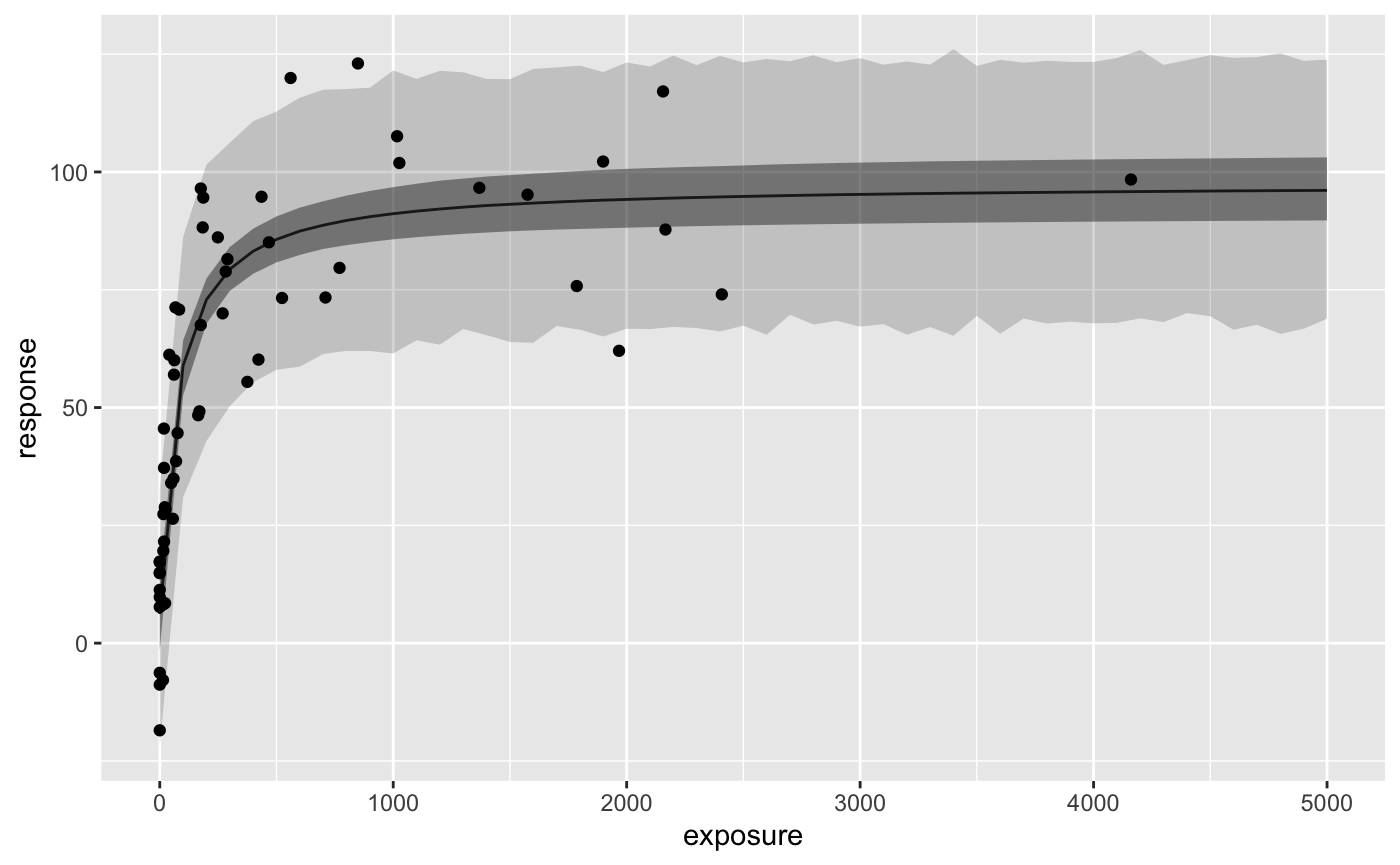
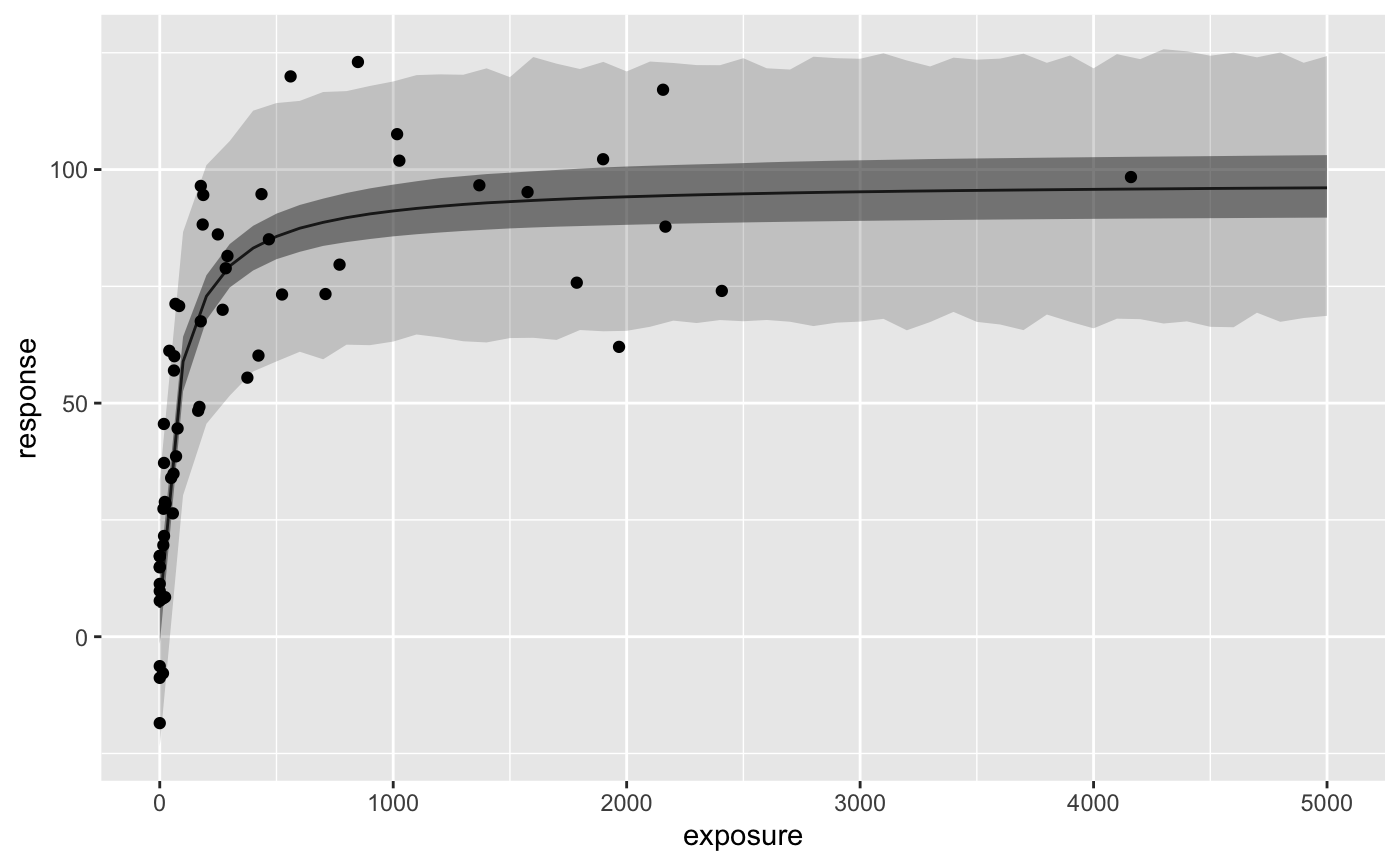
Update documents & sites

diff --git a/docs/articles/emaxmodel.html b/docs/articles/emaxmodel.html
@@ -79,13 +79,13 @@
 
       
 
-      </header><div class="row">
+      </header><script src="emaxmodel_files/accessible-code-block-0.0.1/empty-anchor.js"></script><div class="row">
   <div class="col-md-9 contents">
     <div class="page-header toc-ignore">
       <h1 data-toc-skip>Simple Emax model fit with Stan</h1>
                         <h4 class="author">Kenta Yoshida</h4>
             
-            <h4 class="date">2020-06-18</h4>
+            <h4 class="date">2020-09-16</h4>
       
       <small class="dont-index">Source: <a href="https://github.com/yoshidk6/rstanemax/blob/master/vignettes/emaxmodel.Rmd"><code>vignettes/emaxmodel.Rmd</code></a></small>
       <div class="hidden name"><code>emaxmodel.Rmd</code></div>
@@ -110,16 +110,7 @@
 
 <span class="no">fit.emax</span> <span class="kw">&lt;-</span> <span class="fu"><a href="../reference/stan_emax.html">stan_emax</a></span>(<span class="no">response</span> ~ <span class="no">exposure</span>, <span class="kw">data</span> <span class="kw">=</span> <span class="no">exposure.response.sample</span>,
                       <span class="co"># the next line is only to make the example go fast enough</span>
-                      <span class="kw">chains</span> <span class="kw">=</span> <span class="fl">2</span>, <span class="kw">iter</span> <span class="kw">=</span> <span class="fl">1000</span>, <span class="kw">seed</span> <span class="kw">=</span> <span class="fl">12345</span>)
-<span class="co">#&gt; Warning: The largest R-hat is NA, indicating chains have not mixed.</span>
-<span class="co">#&gt; Running the chains for more iterations may help. See</span>
-<span class="co">#&gt; http://mc-stan.org/misc/warnings.html#r-hat</span>
-<span class="co">#&gt; Warning: Bulk Effective Samples Size (ESS) is too low, indicating posterior means and medians may be unreliable.</span>
-<span class="co">#&gt; Running the chains for more iterations may help. See</span>
-<span class="co">#&gt; http://mc-stan.org/misc/warnings.html#bulk-ess</span>
-<span class="co">#&gt; Warning: Tail Effective Samples Size (ESS) is too low, indicating posterior variances and tail quantiles may be unreliable.</span>
-<span class="co">#&gt; Running the chains for more iterations may help. See</span>
-<span class="co">#&gt; http://mc-stan.org/misc/warnings.html#tail-ess</span></pre></body></html></div>
+                      <span class="kw">chains</span> <span class="kw">=</span> <span class="fl">2</span>, <span class="kw">iter</span> <span class="kw">=</span> <span class="fl">1000</span>, <span class="kw">seed</span> <span class="kw">=</span> <span class="fl">12345</span>)</pre></body></html></div>
 <div class="sourceCode" id="cb3"><html><body><pre class="r"><span class="no">fit.emax</span>
 <span class="co">#&gt; ---- Emax model fit with rstanemax ----</span>
 <span class="co">#&gt; </span>
@@ -139,8 +130,17 @@
 <p><code><a href="https://rdrr.io/r/base/plot.html">plot()</a></code> function shows the estimated Emax model curve with 95% credible intervals of parameters.</p>
 <div class="sourceCode" id="cb4"><html><body><pre class="r"><span class="fu"><a href="https://rdrr.io/r/base/plot.html">plot</a></span>(<span class="no">fit.emax</span>)</pre></body></html></div>
 <p><img src="emaxmodel_files/figure-html/plot_example-1.png" width="700"></p>
+<p>Output of <code><a href="https://rdrr.io/r/base/plot.html">plot()</a></code> function (for <code>stanemax</code> object) is a <code>ggplot</code> object, so you can apply additional settings as you would do in <code>ggplot2</code>.<br>
+Here is an example of using log scale for x axis (note that exposure == 0 is hanging at the very left, making the curve a bit weird).</p>
+<div class="sourceCode" id="cb5"><html><body><pre class="r"><span class="fu"><a href="https://rdrr.io/r/base/plot.html">plot</a></span>(<span class="no">fit.emax</span>) + <span class="fu"><a href="https://ggplot2.tidyverse.org/reference/scale_continuous.html">scale_x_log10</a></span>() + <span class="fu"><a href="https://ggplot2.tidyverse.org/reference/expand_limits.html">expand_limits</a></span>(<span class="kw">x</span> <span class="kw">=</span> <span class="fl">1</span>)
+<span class="co">#&gt; Warning: Transformation introduced infinite values in continuous x-axis</span>
+
+<span class="co">#&gt; Warning: Transformation introduced infinite values in continuous x-axis</span>
+
+<span class="co">#&gt; Warning: Transformation introduced infinite values in continuous x-axis</span></pre></body></html></div>
+<p><img src="emaxmodel_files/figure-html/plot_example_log-1.png" width="700"></p>
 <p>Raw output from <code>rstan</code> is stored in the output variable, and you can access it with <code><a href="../reference/stanemax-methods.html">extract_stanfit()</a></code> function.</p>
-<div class="sourceCode" id="cb5"><html><body><pre class="r"><span class="fu"><a href="https://rdrr.io/r/base/class.html">class</a></span>(<span class="fu"><a href="../reference/stanemax-methods.html">extract_stanfit</a></span>(<span class="no">fit.emax</span>))
+<div class="sourceCode" id="cb6"><html><body><pre class="r"><span class="fu"><a href="https://rdrr.io/r/base/class.html">class</a></span>(<span class="fu"><a href="../reference/stanemax-methods.html">extract_stanfit</a></span>(<span class="no">fit.emax</span>))
 <span class="co">#&gt; [1] "stanfit"</span>
 <span class="co">#&gt; attr(,"package")</span>
 <span class="co">#&gt; [1] "rstan"</span></pre></body></html></div>
@@ -149,44 +149,44 @@
 <h2 class="hasAnchor">
 <a href="#prediction-of-response-with-new-exposure-data" class="anchor"></a>Prediction of response with new exposure data</h2>
 <p><code><a href="../reference/posterior_predict.html">posterior_predict()</a></code> function allows users to predict the response using new exposure data. If <code>newdata</code> is not provided, the function returns the prediction on the exposures in original data. The default output is a matrix of posterior predictions, but you can also specify “dataframe” or “tibble” that contain posterior predictions in a long format. See help of <code><a href="../reference/posterior_predict.html">rstanemax::posterior_predict()</a></code> for the description of two predictions, <code>respHat</code> and <code>response</code>.</p>
-<div class="sourceCode" id="cb6"><html><body><pre class="r"><span class="no">response.pred</span> <span class="kw">&lt;-</span> <span class="fu"><a href="../reference/posterior_predict.html">posterior_predict</a></span>(<span class="no">fit.emax</span>, <span class="kw">newdata</span> <span class="kw">=</span> <span class="fu"><a href="https://rdrr.io/r/base/c.html">c</a></span>(<span class="fl">0</span>, <span class="fl">100</span>, <span class="fl">1000</span>), <span class="kw">returnType</span> <span class="kw">=</span> <span class="st">"tibble"</span>)
+<div class="sourceCode" id="cb7"><html><body><pre class="r"><span class="no">response.pred</span> <span class="kw">&lt;-</span> <span class="fu"><a href="../reference/posterior_predict.html">posterior_predict</a></span>(<span class="no">fit.emax</span>, <span class="kw">newdata</span> <span class="kw">=</span> <span class="fu"><a href="https://rdrr.io/r/base/c.html">c</a></span>(<span class="fl">0</span>, <span class="fl">100</span>, <span class="fl">1000</span>), <span class="kw">returnType</span> <span class="kw">=</span> <span class="st">"tibble"</span>)
 
 <span class="no">response.pred</span> <span class="kw">%&gt;%</span> <span class="fu"><a href="https://dplyr.tidyverse.org/reference/select.html">select</a></span>(<span class="no">mcmcid</span>, <span class="no">exposure</span>, <span class="no">respHat</span>, <span class="no">response</span>)
 <span class="co">#&gt; # A tibble: 3,000 x 4</span>
 <span class="co">#&gt;    mcmcid exposure respHat response</span>
 <span class="co">#&gt;     &lt;int&gt;    &lt;dbl&gt;   &lt;dbl&gt;    &lt;dbl&gt;</span>
-<span class="co">#&gt;  1      1        0  14.6      23.3 </span>
-<span class="co">#&gt;  2      1      100  61.1      50.3 </span>
-<span class="co">#&gt;  3      1     1000  98.4     105.  </span>
-<span class="co">#&gt;  4      2        0  13.1      20.2 </span>
-<span class="co">#&gt;  5      2      100  55.1      41.4 </span>
-<span class="co">#&gt;  6      2     1000  88.6     103.  </span>
-<span class="co">#&gt;  7      3        0   0.681    -8.38</span>
-<span class="co">#&gt;  8      3      100  60.8      47.1 </span>
-<span class="co">#&gt;  9      3     1000  92.1      75.1 </span>
-<span class="co">#&gt; 10      4        0   0.217   -15.3 </span>
+<span class="co">#&gt;  1      1        0  14.6     17.2  </span>
+<span class="co">#&gt;  2      1      100  61.1     93.5  </span>
+<span class="co">#&gt;  3      1     1000  98.4     90.0  </span>
+<span class="co">#&gt;  4      2        0  13.1      0.779</span>
+<span class="co">#&gt;  5      2      100  55.1     52.0  </span>
+<span class="co">#&gt;  6      2     1000  88.6     82.0  </span>
+<span class="co">#&gt;  7      3        0   0.681  -15.6  </span>
+<span class="co">#&gt;  8      3      100  60.8     60.9  </span>
+<span class="co">#&gt;  9      3     1000  92.1     84.6  </span>
+<span class="co">#&gt; 10      4        0   0.217   36.1  </span>
 <span class="co">#&gt; # … with 2,990 more rows</span></pre></body></html></div>
 <p>You can also get quantiles of predictions with <code><a href="../reference/posterior_predict.html">posterior_predict_quantile()</a></code> function.</p>
-<div class="sourceCode" id="cb7"><html><body><pre class="r"><span class="no">resp.pred.quantile</span> <span class="kw">&lt;-</span> <span class="fu"><a href="../reference/posterior_predict.html">posterior_predict_quantile</a></span>(<span class="no">fit.emax</span>, <span class="kw">newdata</span> <span class="kw">=</span> <span class="fu"><a href="https://rdrr.io/r/base/seq.html">seq</a></span>(<span class="fl">0</span>, <span class="fl">5000</span>, <span class="kw">by</span> <span class="kw">=</span> <span class="fl">100</span>))
+<div class="sourceCode" id="cb8"><html><body><pre class="r"><span class="no">resp.pred.quantile</span> <span class="kw">&lt;-</span> <span class="fu"><a href="../reference/posterior_predict.html">posterior_predict_quantile</a></span>(<span class="no">fit.emax</span>, <span class="kw">newdata</span> <span class="kw">=</span> <span class="fu"><a href="https://rdrr.io/r/base/seq.html">seq</a></span>(<span class="fl">0</span>, <span class="fl">5000</span>, <span class="kw">by</span> <span class="kw">=</span> <span class="fl">100</span>))
 <span class="no">resp.pred.quantile</span>
 <span class="co">#&gt; # A tibble: 51 x 11</span>
 <span class="co">#&gt;    exposure covemax covec50 cove0 Covariates ci_low ci_med ci_high pi_low pi_med</span>
 <span class="co">#&gt;       &lt;dbl&gt; &lt;fct&gt;   &lt;fct&gt;   &lt;fct&gt; &lt;chr&gt;       &lt;dbl&gt;  &lt;dbl&gt;   &lt;dbl&gt;  &lt;dbl&gt;  &lt;dbl&gt;</span>
-<span class="co">#&gt;  1        0 1       1       1     ""          -1.54   6.18    13.5  -21.9   5.89</span>
-<span class="co">#&gt;  2      100 1       1       1     ""          52.6   58.9     64.2   30.9  58.9 </span>
-<span class="co">#&gt;  3      200 1       1       1     ""          67.8   72.9     77.4   42.9  73.3 </span>
-<span class="co">#&gt;  4      300 1       1       1     ""          74.8   79.4     84.1   50.3  80.2 </span>
-<span class="co">#&gt;  5      400 1       1       1     ""          78.4   83.2     88.0   55.4  83.5 </span>
-<span class="co">#&gt;  6      500 1       1       1     ""          80.8   85.7     90.6   58.0  85.4 </span>
-<span class="co">#&gt;  7      600 1       1       1     ""          82.4   87.4     92.4   58.7  87.1 </span>
-<span class="co">#&gt;  8      700 1       1       1     ""          83.7   88.7     93.8   61.4  88.2 </span>
-<span class="co">#&gt;  9      800 1       1       1     ""          84.5   89.7     95.0   62.0  89.8 </span>
-<span class="co">#&gt; 10      900 1       1       1     ""          85.1   90.5     96.0   62.0  90.6 </span>
+<span class="co">#&gt;  1        0 1       1       1     ""          -1.54   6.18    13.5  -23.4   6.46</span>
+<span class="co">#&gt;  2      100 1       1       1     ""          52.6   58.9     64.2   30.3  58.1 </span>
+<span class="co">#&gt;  3      200 1       1       1     ""          67.8   72.9     77.4   45.6  72.9 </span>
+<span class="co">#&gt;  4      300 1       1       1     ""          74.8   79.4     84.1   51.6  79.1 </span>
+<span class="co">#&gt;  5      400 1       1       1     ""          78.4   83.2     88.0   56.8  83.5 </span>
+<span class="co">#&gt;  6      500 1       1       1     ""          80.8   85.7     90.6   58.9  87.0 </span>
+<span class="co">#&gt;  7      600 1       1       1     ""          82.4   87.4     92.4   61.0  87.5 </span>
+<span class="co">#&gt;  8      700 1       1       1     ""          83.7   88.7     93.8   59.4  88.2 </span>
+<span class="co">#&gt;  9      800 1       1       1     ""          84.5   89.7     95.0   62.5  88.5 </span>
+<span class="co">#&gt; 10      900 1       1       1     ""          85.1   90.5     96.0   62.4  90.9 </span>
 <span class="co">#&gt; # … with 41 more rows, and 1 more variable: pi_high &lt;dbl&gt;</span></pre></body></html></div>
 <p>Input data can be obtained in a same format with <code><a href="../reference/stanemax-methods.html">extract_obs_mod_frame()</a></code> function.</p>
-<div class="sourceCode" id="cb8"><html><body><pre class="r"><span class="no">obs.formatted</span> <span class="kw">&lt;-</span> <span class="fu"><a href="../reference/stanemax-methods.html">extract_obs_mod_frame</a></span>(<span class="no">fit.emax</span>)</pre></body></html></div>
+<div class="sourceCode" id="cb9"><html><body><pre class="r"><span class="no">obs.formatted</span> <span class="kw">&lt;-</span> <span class="fu"><a href="../reference/stanemax-methods.html">extract_obs_mod_frame</a></span>(<span class="no">fit.emax</span>)</pre></body></html></div>
 <p>These are particularly useful when you want to plot the estimated Emax curve.</p>
-<div class="sourceCode" id="cb9"><html><body><pre class="r"><span class="fu"><a href="https://ggplot2.tidyverse.org/reference/ggplot.html">ggplot</a></span>(<span class="no">resp.pred.quantile</span>, <span class="fu"><a href="https://ggplot2.tidyverse.org/reference/aes.html">aes</a></span>(<span class="no">exposure</span>, <span class="no">ci_med</span>)) +
+<div class="sourceCode" id="cb10"><html><body><pre class="r"><span class="fu"><a href="https://ggplot2.tidyverse.org/reference/ggplot.html">ggplot</a></span>(<span class="no">resp.pred.quantile</span>, <span class="fu"><a href="https://ggplot2.tidyverse.org/reference/aes.html">aes</a></span>(<span class="no">exposure</span>, <span class="no">ci_med</span>)) +
   <span class="fu"><a href="https://ggplot2.tidyverse.org/reference/geom_path.html">geom_line</a></span>() +
   <span class="fu"><a href="https://ggplot2.tidyverse.org/reference/geom_ribbon.html">geom_ribbon</a></span>(<span class="fu"><a href="https://ggplot2.tidyverse.org/reference/aes.html">aes</a></span>(<span class="kw">ymin</span><span class="kw">=</span><span class="no">ci_low</span>, <span class="kw">ymax</span><span class="kw">=</span><span class="no">ci_high</span>), <span class="kw">alpha</span> <span class="kw">=</span> <span class="fl">.5</span>) +
   <span class="fu"><a href="https://ggplot2.tidyverse.org/reference/geom_ribbon.html">geom_ribbon</a></span>(<span class="fu"><a href="https://ggplot2.tidyverse.org/reference/aes.html">aes</a></span>(<span class="kw">ymin</span><span class="kw">=</span><span class="no">pi_low</span>, <span class="kw">ymax</span><span class="kw">=</span><span class="no">pi_high</span>), <span class="kw">alpha</span> <span class="kw">=</span> <span class="fl">.2</span>) +
@@ -201,22 +201,16 @@
 <a href="#fix-parameter-values-in-emax-model" class="anchor"></a>Fix parameter values in Emax model</h1>
 <p>You can fix parameter values in Emax model for Emax, E0 and/or gamma (Hill coefficient). See help of <code><a href="../reference/stan_emax.html">stan_emax()</a></code> for the details. The default is to fix gamma at 1 and to estimate Emax and E0 from data.</p>
 <p>Below is the example of estimating gamma from data.</p>
-<div class="sourceCode" id="cb10"><html><body><pre class="r"><span class="fu"><a href="https://rdrr.io/r/utils/data.html">data</a></span>(<span class="no">exposure.response.sample</span>)
+<div class="sourceCode" id="cb11"><html><body><pre class="r"><span class="fu"><a href="https://rdrr.io/r/utils/data.html">data</a></span>(<span class="no">exposure.response.sample</span>)
 
 <span class="no">fit.emax.sigmoidal</span> <span class="kw">&lt;-</span> <span class="fu"><a href="../reference/stan_emax.html">stan_emax</a></span>(<span class="no">response</span> ~ <span class="no">exposure</span>, <span class="kw">data</span> <span class="kw">=</span> <span class="no">exposure.response.sample</span>,
                                 <span class="kw">gamma.fix</span> <span class="kw">=</span> <span class="kw">NULL</span>,
                                 <span class="co"># the next line is only to make the example go fast enough</span>
                                 <span class="kw">chains</span> <span class="kw">=</span> <span class="fl">2</span>, <span class="kw">iter</span> <span class="kw">=</span> <span class="fl">1000</span>, <span class="kw">seed</span> <span class="kw">=</span> <span class="fl">12345</span>)
-<span class="co">#&gt; Warning: The largest R-hat is NA, indicating chains have not mixed.</span>
-<span class="co">#&gt; Running the chains for more iterations may help. See</span>
-<span class="co">#&gt; http://mc-stan.org/misc/warnings.html#r-hat</span>
-<span class="co">#&gt; Warning: Bulk Effective Samples Size (ESS) is too low, indicating posterior means and medians may be unreliable.</span>
-<span class="co">#&gt; Running the chains for more iterations may help. See</span>
-<span class="co">#&gt; http://mc-stan.org/misc/warnings.html#bulk-ess</span>
 <span class="co">#&gt; Warning: Tail Effective Samples Size (ESS) is too low, indicating posterior variances and tail quantiles may be unreliable.</span>
 <span class="co">#&gt; Running the chains for more iterations may help. See</span>
 <span class="co">#&gt; http://mc-stan.org/misc/warnings.html#tail-ess</span></pre></body></html></div>
-<div class="sourceCode" id="cb11"><html><body><pre class="r"><span class="no">fit.emax.sigmoidal</span>
+<div class="sourceCode" id="cb12"><html><body><pre class="r"><span class="no">fit.emax.sigmoidal</span>
 <span class="co">#&gt; ---- Emax model fit with rstanemax ----</span>
 <span class="co">#&gt; </span>
 <span class="co">#&gt;        mean se_mean    sd  2.5%   25%   50%   75%  97.5%  n_eff Rhat</span>
@@ -233,7 +227,7 @@
 <span class="co">#&gt; * Use `extract_obs_mod_frame()` function to extract raw data </span>
 <span class="co">#&gt;   in a processed format (useful for plotting)</span></pre></body></html></div>
 <p>You can compare the difference of posterior predictions between two models (in this case they are very close to each other):</p>
-<div class="sourceCode" id="cb12"><html><body><pre class="r">
+<div class="sourceCode" id="cb13"><html><body><pre class="r">
 <span class="no">exposure_pred</span> <span class="kw">&lt;-</span> <span class="fu"><a href="https://rdrr.io/r/base/seq.html">seq</a></span>(<span class="fu"><a href="https://rdrr.io/r/base/Extremes.html">min</a></span>(<span class="no">exposure.response.sample</span>$<span class="no">exposure</span>),
                      <span class="fu"><a href="https://rdrr.io/r/base/Extremes.html">max</a></span>(<span class="no">exposure.response.sample</span>$<span class="no">exposure</span>),
                      <span class="kw">length.out</span> <span class="kw">=</span> <span class="fl">100</span>)
@@ -261,7 +255,7 @@
 <h1 class="hasAnchor">
 <a href="#set-covariates" class="anchor"></a>Set covariates</h1>
 <p>You can specify categorical covariates for Emax, EC50, and E0. See help of <code><a href="../reference/stan_emax.html">stan_emax()</a></code> for the details.</p>
-<div class="sourceCode" id="cb13"><html><body><pre class="r"><span class="fu"><a href="https://rdrr.io/r/utils/data.html">data</a></span>(<span class="no">exposure.response.sample.test</span>)
+<div class="sourceCode" id="cb14"><html><body><pre class="r"><span class="fu"><a href="https://rdrr.io/r/utils/data.html">data</a></span>(<span class="no">exposure.response.sample.test</span>)
 
 <span class="no">test.data</span> <span class="kw">&lt;-</span>
   <span class="fu"><a href="https://dplyr.tidyverse.org/reference/mutate.html">mutate</a></span>(<span class="no">exposure.response.sample.test</span>,
@@ -270,17 +264,8 @@
 <span class="no">fit.cov</span> <span class="kw">&lt;-</span> <span class="fu"><a href="../reference/stan_emax.html">stan_emax</a></span>(<span class="kw">formula</span> <span class="kw">=</span> <span class="no">resp</span> ~ <span class="no">conc</span>, <span class="kw">data</span> <span class="kw">=</span> <span class="no">test.data</span>,
                      <span class="kw">param.cov</span> <span class="kw">=</span> <span class="fu"><a href="https://rdrr.io/r/base/list.html">list</a></span>(<span class="kw">emax</span> <span class="kw">=</span> <span class="st">"SEX"</span>),
                      <span class="co"># the next line is only to make the example go fast enough</span>
-                     <span class="kw">chains</span> <span class="kw">=</span> <span class="fl">2</span>, <span class="kw">iter</span> <span class="kw">=</span> <span class="fl">1000</span>, <span class="kw">seed</span> <span class="kw">=</span> <span class="fl">12345</span>)
-<span class="co">#&gt; Warning: The largest R-hat is NA, indicating chains have not mixed.</span>
-<span class="co">#&gt; Running the chains for more iterations may help. See</span>
-<span class="co">#&gt; http://mc-stan.org/misc/warnings.html#r-hat</span>
-<span class="co">#&gt; Warning: Bulk Effective Samples Size (ESS) is too low, indicating posterior means and medians may be unreliable.</span>
-<span class="co">#&gt; Running the chains for more iterations may help. See</span>
-<span class="co">#&gt; http://mc-stan.org/misc/warnings.html#bulk-ess</span>
-<span class="co">#&gt; Warning: Tail Effective Samples Size (ESS) is too low, indicating posterior variances and tail quantiles may be unreliable.</span>
-<span class="co">#&gt; Running the chains for more iterations may help. See</span>
-<span class="co">#&gt; http://mc-stan.org/misc/warnings.html#tail-ess</span></pre></body></html></div>
-<div class="sourceCode" id="cb14"><html><body><pre class="r"><span class="no">fit.cov</span>
+                     <span class="kw">chains</span> <span class="kw">=</span> <span class="fl">2</span>, <span class="kw">iter</span> <span class="kw">=</span> <span class="fl">1000</span>, <span class="kw">seed</span> <span class="kw">=</span> <span class="fl">12345</span>)</pre></body></html></div>
+<div class="sourceCode" id="cb15"><html><body><pre class="r"><span class="no">fit.cov</span>
 <span class="co">#&gt; ---- Emax model fit with rstanemax ----</span>
 <span class="co">#&gt; </span>
 <span class="co">#&gt;                mean se_mean    sd  2.5%   25%    50%    75%  97.5%  n_eff Rhat</span>
@@ -300,10 +285,10 @@
 <span class="fu"><a href="https://rdrr.io/r/base/plot.html">plot</a></span>(<span class="no">fit.cov</span>)</pre></body></html></div>
 <p><img src="emaxmodel_files/figure-html/plot_with_cov-1.png" width="576"></p>
 <p>You can extract MCMC samples from raw stanfit and evaluate differences between groups.</p>
-<div class="sourceCode" id="cb15"><html><body><pre class="r"><span class="no">emax.posterior</span> <span class="kw">&lt;-</span>
+<div class="sourceCode" id="cb16"><html><body><pre class="r"><span class="no">emax.posterior</span> <span class="kw">&lt;-</span>
   <span class="no">fit.cov</span> <span class="kw">%&gt;%</span>
   <span class="fu"><a href="../reference/stanemax-methods.html">extract_stanfit</a></span>() <span class="kw">%&gt;%</span>
-  <span class="kw pkg">rstan</span><span class="kw ns">::</span><span class="fu"><a href="https://rdrr.io/pkg/rstan/man/stanfit-method-extract.html">extract</a></span>(<span class="kw">pars</span> <span class="kw">=</span> <span class="st">"emax"</span>) <span class="kw">%&gt;%</span>
+  <span class="kw pkg">rstan</span><span class="kw ns">::</span><span class="fu"><a href="https://mc-stan.org/rstan/reference/stanfit-method-extract.html">extract</a></span>(<span class="kw">pars</span> <span class="kw">=</span> <span class="st">"emax"</span>) <span class="kw">%&gt;%</span>
   <span class="no">.</span>$<span class="no">emax</span>
 
 <span class="co"># delta = emax[FEMALE] - emax[MALE]</span>

diff --git a/docs/articles/emaxmodel_files/accessible-code-block-0.0.1/empty-anchor.js b/docs/articles/emaxmodel_files/accessible-code-block-0.0.1/empty-anchor.js
@@ -1,0 +1,15 @@
+// Hide empty <a> tag within highlighted CodeBlock for screen reader accessibility (see https://github.com/jgm/pandoc/issues/6352#issuecomment-626106786) -->
+// v0.0.1
+// Written by JooYoung Seo (jooyoung@psu.edu) and Atsushi Yasumoto on June 1st, 2020.
+
+document.addEventListener('DOMContentLoaded', function() {
+  const codeList = document.getElementsByClassName("sourceCode");
+  for (var i = 0; i < codeList.length; i++) {
+    var linkList = codeList[i].getElementsByTagName('a');
+    for (var j = 0; j < linkList.length; j++) {
+      if (linkList[j].innerHTML === "") {
+        linkList[j].setAttribute('aria-hidden', 'true');
+      }
+    }
+  }
+});

diff --git a/docs/news/index.html b/docs/news/index.html
@@ -137,7 +137,7 @@
 </div>
     <div id="rstanemax-012" class="section level1">
 <h1 class="page-header" data-toc-text="0.1.2">
-<a href="#rstanemax-012" class="anchor"></a>rstanemax 0.1.2<small> Unreleased </small>
+<a href="#rstanemax-012" class="anchor"></a>rstanemax 0.1.2<small> 2020-06-18 </small>
 </h1>
 <div id="minor-changes-1" class="section level2">
 <h2 class="hasAnchor">
